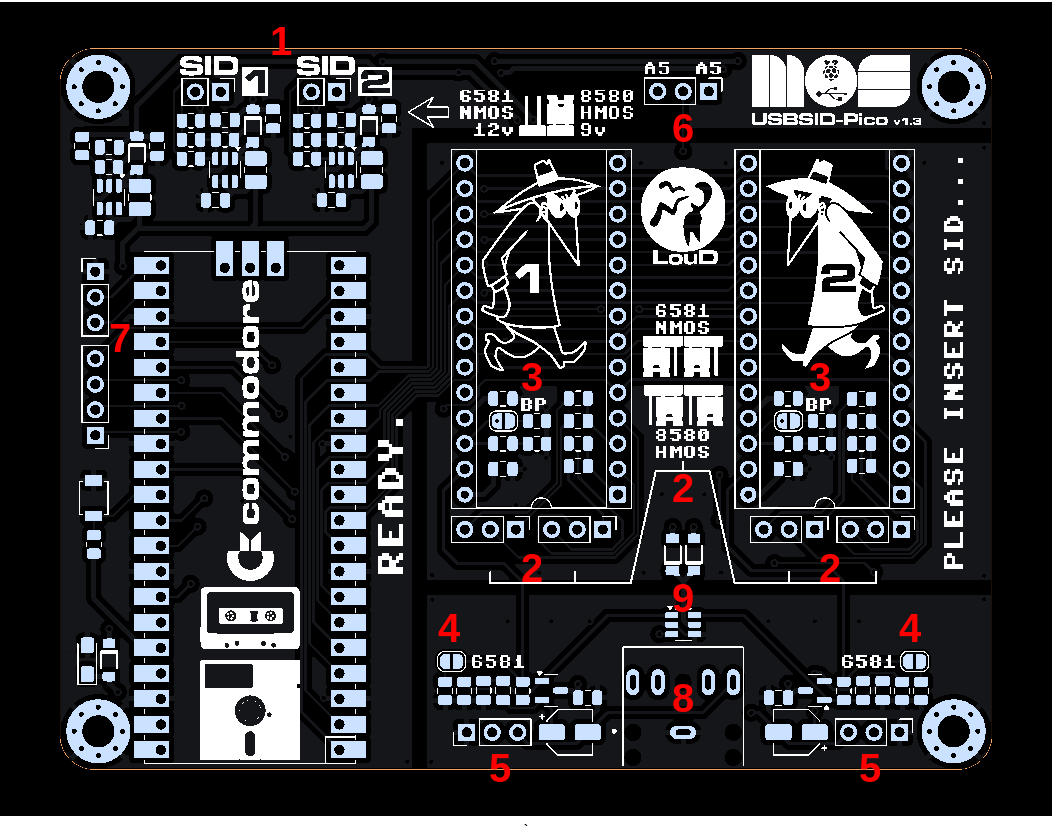
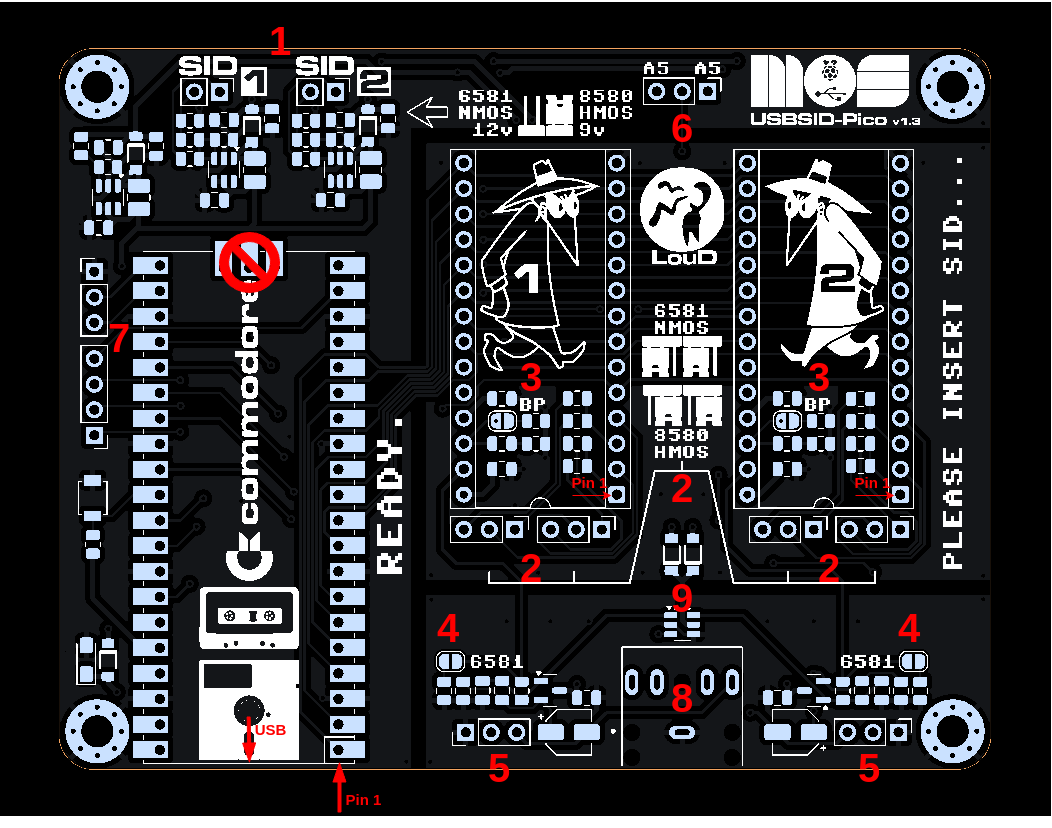
Update README and PCB manuals

diff --git a/doc/license-hardware.html b/doc/license-hardware.html
@@ -1,0 +1,1 @@
+<p xmlns:cc="http://creativecommons.org/ns#" xmlns:dct="http://purl.org/dc/terms/"><a property="dct:title" rel="cc:attributionURL" href="https://github.com/LouDnl/USBSID-Pico">USBSID-Pico PCB</a> by <a rel="cc:attributionURL dct:creator" property="cc:attributionName" href="https://github.com/LouDnl">LouD</a> is licensed under <a href="https://creativecommons.org/licenses/by-nc-nd/4.0/?ref=chooser-v1" target="_blank" rel="license noopener noreferrer" style="display:inline-block;">Creative Commons Attribution-NonCommercial-NoDerivatives 4.0 International<img style="height:22px!important;margin-left:3px;vertical-align:text-bottom;" src="https://mirrors.creativecommons.org/presskit/icons/cc.svg?ref=chooser-v1" alt=""><img style="height:22px!important;margin-left:3px;vertical-align:text-bottom;" src="https://mirrors.creativecommons.org/presskit/icons/by.svg?ref=chooser-v1" alt=""><img style="height:22px!important;margin-left:3px;vertical-align:text-bottom;" src="https://mirrors.creativecommons.org/presskit/icons/nc.svg?ref=chooser-v1" alt=""><img style="height:22px!important;margin-left:3px;vertical-align:text-bottom;" src="https://mirrors.creativecommons.org/presskit/icons/nd.svg?ref=chooser-v1" alt=""></a></p>

diff --git a/doc/disclaimer.html b/doc/disclaimer.html
@@ -1,0 +1,1 @@
+I do this stuff in my free time for my enjoyment. Since I like to share my joy in creating this with everyone I try my best to provide a working PCB and Firmware. I am in no way an electronics engineer and can give <i>no guarantees</i> that this stuff does not break or damage your hardware, computer, phone, or whatever you try to hook it up to. Be sure to take great care when inserting any real MOS SID chips into the board. While everything has been tested with real chips, this is in no way a guarantee that nothing could go wrong. Use of this board and firmware at your own risk! I am in no way responsible for your damaged hardware. That being said, have fun!

diff --git a/doc/license-software.html b/doc/license-software.html
@@ -1,0 +1,3 @@
+All code written by me in this repository is licensed under the terms of the GNU General Public License as published by the Free Software Foundation, version 2.
+Any code in this repository that is not written by me automatically falls under the licensing conditions by the authors of said code as mentioned in the source code header.
+For for more information about this license please read the LICENSE document in the root of the USBSID-Pico repository.

diff --git a/README.md b/README.md
@@ -1,7 +1,7 @@
 ![USBSID-Pico](images/pcbv1.3.jpg)<br>
 ![USBSID-Pico](images/usbsid.png)![LouD](images/loud.png)
 # USBSID-Pico
-USBSID-Pico is a RPi Pico/PicoW (RP2040) & Pico2/Pico2W (RP2350) based board for interfacing one or two MOS SID chips and/or hardware SID emulators over (WEB)USB with your computer, phone, ASID supporting player or USB midi controller.  
+USBSID-Pico is a RaspberryPi Pico/PicoW (RP2040) & Pico2/Pico2W (RP2350) based board for interfacing one or two MOS SID chips and/or hardware SID emulators over (WEB)USB with your computer, phone, ASID supporting player or USB midi controller.  
 
 * [Features](#features)
 * [Questions & Support](#questions-and-support)
@@ -10,11 +10,13 @@ USBSID-Pico is a RPi Pico/PicoW (RP2040) & Pico2/Pico2W (RP2350) based board for
   * [Firmware versions](#firmware-versions)
   * [How to flash new firmware](#how-to-flash)
   * [Known issues](#known-issues)
-* [Important PCB information](#important-pcb-information)
 * [Hardware](#hardware)
+  * [Important PCB information](#important-pcb-information)
   * [Where to buy](#where-to-buy)
   * [Cases](#cases)
   * [Schematic and BOM](#schematic-and-bom)
+  * [PCB Features](#pcb-features)
+  * [PCB Development](#pcb-development)
 * [PCB in action](#usbsid-pico-in-action)
 * [Software examples](#software)
   * [Pre compiled Vice binaries](#precompiled-vice-binaries)
@@ -24,7 +26,6 @@ USBSID-Pico is a RPi Pico/PicoW (RP2040) & Pico2/Pico2W (RP2350) based board for
 * [Changelog](CHANGELOG.md)
 
 # Features
-Information about and explanation of features are _Coming Soon™_  
 ![USBSID-Pico](images/pcbv0.2.png)
 #### SID Playing
 USBSID-Pico supports various ways of playing SID files.  
@@ -34,7 +35,7 @@ by selecting `ASID (MIDI)` as player in the pulldown menu.
 Out-of-the box playing is also supported by using [C64jukebox by Kenchis](https://haendel.ddns.net:8443/static/c64jukebox.vue), note that this is still in BETA.  
 [SidBerry](https://github.com/LouDnl/SidBerry) is a command line SID file player for Linux & Windows with up to 4 SIDs supported (Windows version is buggy).  
 Unofficial support is added to a fork of [Vice](https://github.com/LouDnl/Vice-USBSID), up to 3 SIDs are supported in vsid and up to 4 in x64sc.  
-Unofficial support is added to a fork of [sidplayfp]() which requires a fork of [libsidplayfp]().  
+Unofficial support is added to a fork of [sidplayfp](https://github.com/LouDnl/sidplayfp-usbsid) which requires a fork of [libsidplayfp](https://github.com/LouDnl/libsidplayfp-usbsid).  
 Unofficial support is added to a fork of [RetroDebugger](https://github.com/LouDnl/RetroDebugger), up to 4 SIDs are supported.
 ##### Amiga
 [erique](https://github.com/erique) and [koobo](https://github.com/koobo) have added support to [playsid](https://github.com/erique/playsid.library)
@@ -84,8 +85,9 @@ While in development any mentioned features, options, etc. are subject to change
 [H]: https://github.com/LouDnl/USBSID-Pico/discussions
 [I]: https://github.com/LouDnl/USBSID-Pico/blob/master/LICENSE
 [J]: https://github.com/LouDnl/USBSID-Pico
+
 ### Test and config your board
-You can configurate your board by using the commandline [config-tool](examples/config-tool) [binary](examples/config-tool/cfg_usbsid) (Linux only at the moment) provided in examples  
+You can configurate your board by using the commandline [config-tool](examples/config-tool) [binary](examples/config-tool/cfg_usbsid) (Linux only at the moment) provided in examples or use the web configurations, see below.  
 
 You can test your board with WebUSB and ASID here: [USBSID](https://usbsid.loudai.nl/?player=webusb).  
 If needed you can change your USBSID configuration after selecting WebUSB and clicking on `Open config`.  
@@ -100,17 +102,18 @@ _In development_
 Linux: Vice, RetroDebugger, SidBerry, SidplayFp, JSidplay2, USB Midi, ASID (in webbrowser) SID Play  
 Windows: Vice, SidBerry, USB Midi, ASID (in webbrowser) SID Play  
 Android: USB Midi, ASID (in webbrowser) SID Play
+Amiga: PlaySID library
 
 ### Linux Udev rules
 In the [examples/udev](repo/examples/udev-rules/69-usbsid-permissions.rules) directory you can find the udev rules that I use on Linux. This purely an example file that you can use and change to your own needs.  
 Steps required for this to work
-```bash
+```shell
   # Check if you are in the plugdev group
   groups  # should show the plugdev group
   # Copy the udev ules file to the correct directory
   sudo cp 69-usbsid-permissions.rules /etc/udev/rules.d
   # Now reload the udev rules
-  udevadm control --reload-rules && udevadm trigger
+  sudo udevadm control --reload-rules && sudo udevadm trigger
   # Not working? Try reloading the service
   sudo systemctl restart udev
 ```
@@ -127,7 +130,8 @@ Then configure check, configure and test your board on the [USBSID](https://usbs
 See the [firmware changelog](CHANGELOG.md) for more information on what's changed and previous releases.
 ### Firmware versions
 Check your PCB revision, this is under the MOS logo and next to __USBSID-Pico__ on your PCB.  
-Firmware filenames containing `v1.0` are for PCB revision __v1.0__ and filenames containing `v1.3` are for PCB revision __v1.3__. Don't worry if you use the incorrect version, this causes no harm.  
+Firmware filenames containing `v1.0` are for PCB revision __v1.0__ and filenames containing `v1.3` are for PCB revision __v1.3__.  
+Don't worry if you use the incorrect version, this causes no harm.  
 <sub>(The X.X in each filename equals for the PCB revision)</sub>  
 
 `usbsidpico-v1.X.uf2` for Pico1 regular green rp2040 Pico boards.  
@@ -135,7 +139,7 @@ Firmware filenames containing `v1.0` are for PCB revision __v1.0__ and filenames
 `usbsidpico_w-v1.X.uf2` for PicoW regular green rp2040 PicoW boards.  
 `usbsidpico2-v1.X.uf2` for Pico2 regular green rp2350 Pico2 boards.  
 `usbsidpico2_w-v1.X.uf2` for Pico2W regular green rp2350 Pico2W boards.  
-**WARNING!** Do _NOT_ use the RGB firmware for any of the (non black) rp2040 or rp2350 Pico boards that do not contain an RGB LED.
+**WARNING!** Do _NOT_ use the **RGB** firmware for any of the (non black) rp2040 or rp2350 Pico boards that do not contain an RGB LED.
 ### How to flash
 _<ins>**NOTE**: When flashing a new firmware version, all previously configured settings will be reset to default. Use the commandline configtool to save your current settings to a `ini` file if you want to save them!</ins>_  
 A Raspberry Pi Pico board is incredibly easy to flash, as it comes with a built in bootloader for flashing new firmwares in the `uf2` format. 
@@ -197,13 +201,14 @@ No account yet at [PCBWay](https://pcbway.com/g/2458i7)? Please use [my referral
 #### Me (when I have boards)
 If available you can purchase (semi) assembled boards minus Pico from me - send me a message on any of my socials.  
 
-## Important PCB information
+## PCB usage information
+Your USBSID-Pico PCB has several hardware features like jumpers and pins that require your attention. Click on the viewing method
 ### PCB revision v1.0 manual
-- [View jumper information (online)](doc/USBSID-Pico-PCBv1.0-manual.adoc)
-- [View jumper information (PDF download)](doc/USBSID-Pico-PCBv1.0-manual.pdf)
+- [Open online PCB v1.0 manual](doc/USBSID-Pico-PCBv1.0-manual.adoc)
+- [Download PCB v1.0 PDF manual](doc/USBSID-Pico-PCBv1.0-manual.pdf)
 ### PCB revision v1.3 manual
-- [View jumper information (online)](doc/USBSID-Pico-PCBv1.3-manual.adoc)
-- [View jumper information (PDF download)](doc/USBSID-Pico-PCBv1.3-manual.pdf)
+- [Open online PCB v1.3 manual](doc/USBSID-Pico-PCBv1.3-manual.adoc)
+- [Download PCB v1.3 PDF manual](doc/USBSID-Pico-PCBv1.3-manual.pdf)
 
 ## Cases
 All USBSID-Pico community created cases are available in the [cases](cases/) directory, direct links below.  
@@ -216,11 +221,13 @@ _Cases for PCB revision v1.3:_
 
 ### Schematic and BOM
 If you want and are up to it you can solder your own PCB or create your own development board using the documents below
-#### v1.0
-[v1.0 schematic](resources/v1.0-schematic.pdf) and [v1.0 interactive BOM](https://htmlpreview.github.io/?https://github.com/LouDnl/USBSID-Pico/blob/master/resources/v1.0-ibom.html)
-#### v1.3
+#### revision v1.3
 [v1.3 schematic](resources/v1.3-schematic.pdf) and [v1.3 interactive BOM](https://htmlpreview.github.io/?https://github.com/LouDnl/USBSID-Pico/blob/master/resources/v1.3-ibom.html)
-### PCB Features ~ v1.3
+#### revision v1.0
+[v1.0 schematic](resources/v1.0-schematic.pdf) and [v1.0 interactive BOM](https://htmlpreview.github.io/?https://github.com/LouDnl/USBSID-Pico/blob/master/resources/v1.0-ibom.html)
+
+### PCB Features
+#### revision v1.3
 Includes all features from v1.0 except the audio jumper
 - IO controlled Stereo/Mono switch, can be set in config or toggled during play
 - Supports mixed voltage!
@@ -229,7 +236,7 @@ Includes all features from v1.0 except the audio jumper
 - SID socket placement is more spread out for:
   - easier filter capacitor access
   - optional ZIF sockets
-- 3 voltage regulators for filtered voltages to the SIDS
+- Three separate voltage regulators for filtered voltages to the SIDS
   - 1x fixed 5 volts and 2x 9 volts or 12 volts
 - Better IO port layout
   - Unused GPIO pins for optional expansion boards
@@ -238,7 +245,7 @@ Includes all features from v1.0 except the audio jumper
   - SID Ext in pins (requires closing the solder jumper on the bottom)
   - Ground pin
   - New soldermask art ;)
-### PCB Features ~ v1.0
+### revision v1.0
 - Supports all MOS SID chips e.g. MOS6581, MOS6582 & MOS8580
 - Supports SID chip replacements e.g. [SIDKick-Pico](https://github.com/frntc/SIDKick-pico), [SwinSID](https://github.com/dmantione/swinsid), ARMSID (untested), FPGASID (untested)
 - 1 MHz oscillator (external optional, enabled via jumper pad)
@@ -304,11 +311,12 @@ Some of those projects are - in no particular order:
 * [Cynthcart by PaulSlocum](https://github.com/PaulSlocum/cynthcart)
 
 # Disclaimer
-I do this stuff in my free time for my enjoyment. Since I like to share my joy in creating this with everyone I try my best to provide a working PCB and Firmware. I am in no way an electronics engineer and can give __no guarantee__ that this stuff does not break or damage your hardware, computer, phone, or whatever you try to hook it up to. Be sure to take great care when inserting any real MOS SID chips into the board. While everything has been tested with real chips, this is in no way a guarantee that nothing could go wrong. Use of this board and firmware at your own risk! I am in no way responsible for your damaged hardware. That being said, have fun!
+I do this stuff in my free time for my enjoyment. Since I like to share my joy in creating this with everyone I try my best to provide a working PCB and Firmware. I am in no way an electronics engineer and can give __no guarantees__ that this stuff does not break or damage your hardware, computer, phone, or whatever you try to hook it up to. Be sure to take great care when inserting any real MOS SID chips into the board. While everything has been tested with real chips, this is in no way a guarantee that nothing could go wrong. Use of this board and firmware at your own risk! I am in no way responsible for your damaged hardware. That being said, have fun!
 
 # License
 ### Software License ~ GNUv2
-All code written by me in this repository islicensed under the terms of the GNU General Public License as published by the Free Software Foundation, version 2.
+All code written by me in this repository is licensed under the terms of the GNU General Public License as published by the Free Software Foundation, version 2.
 Any code in this repository that is not written by me automatically falls under the licensing conditions by the authors of said code as mentioned in the source code header.
+For for more information about this license please read the LICENSE document in the root of the USBSID-Pico repository.
 ### Hardware License ~ Creative Commons
 <p xmlns:cc="http://creativecommons.org/ns#" xmlns:dct="http://purl.org/dc/terms/"><a property="dct:title" rel="cc:attributionURL" href="https://github.com/LouDnl/USBSID-Pico">USBSID-Pico PCB</a> by <a rel="cc:attributionURL dct:creator" property="cc:attributionName" href="https://github.com/LouDnl">LouD</a> is licensed under <a href="https://creativecommons.org/licenses/by-nc-nd/4.0/?ref=chooser-v1" target="_blank" rel="license noopener noreferrer" style="display:inline-block;">Creative Commons Attribution-NonCommercial-NoDerivatives 4.0 International<img style="height:22px!important;margin-left:3px;vertical-align:text-bottom;" src="https://mirrors.creativecommons.org/presskit/icons/cc.svg?ref=chooser-v1" alt=""><img style="height:22px!important;margin-left:3px;vertical-align:text-bottom;" src="https://mirrors.creativecommons.org/presskit/icons/by.svg?ref=chooser-v1" alt=""><img style="height:22px!important;margin-left:3px;vertical-align:text-bottom;" src="https://mirrors.creativecommons.org/presskit/icons/nc.svg?ref=chooser-v1" alt=""><img style="height:22px!important;margin-left:3px;vertical-align:text-bottom;" src="https://mirrors.creativecommons.org/presskit/icons/nd.svg?ref=chooser-v1" alt=""></a></p>
